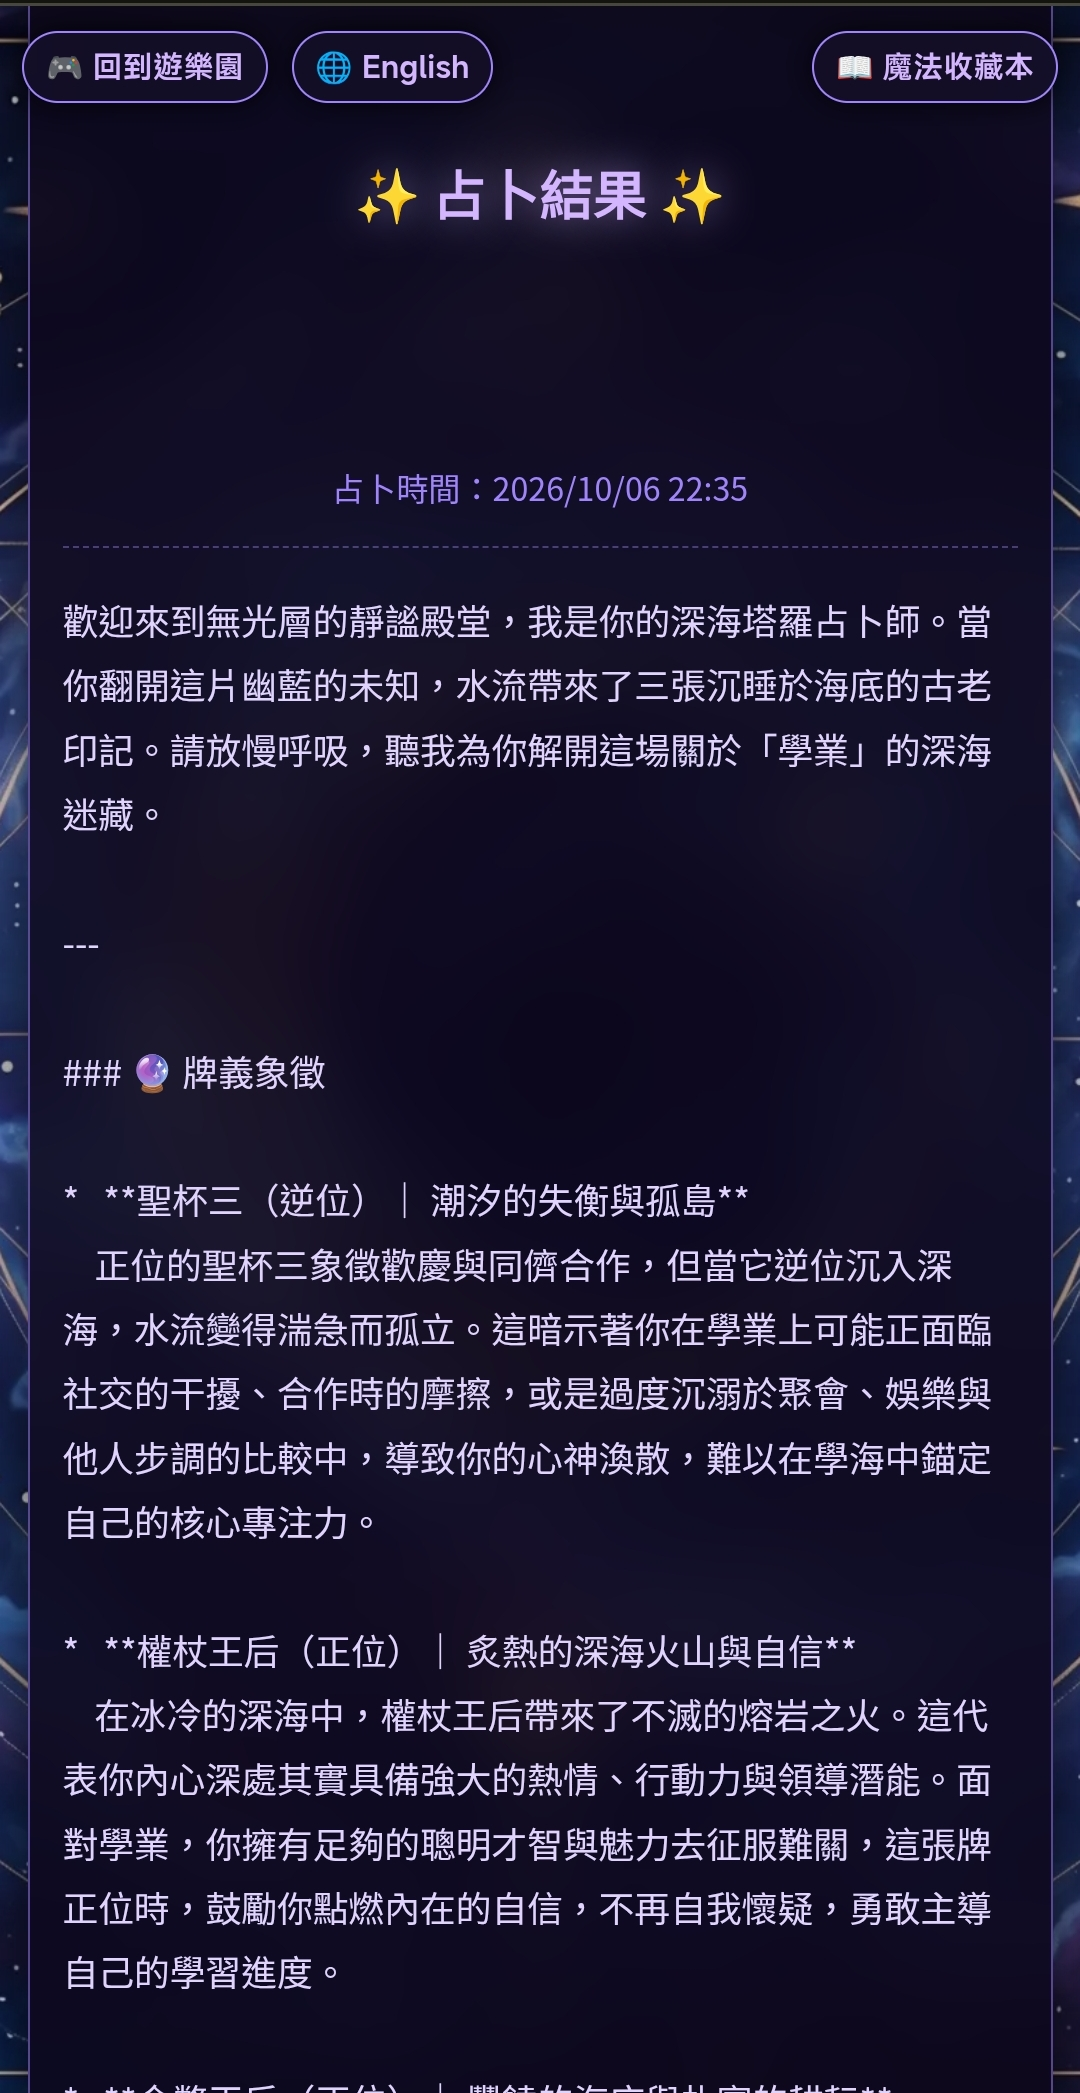
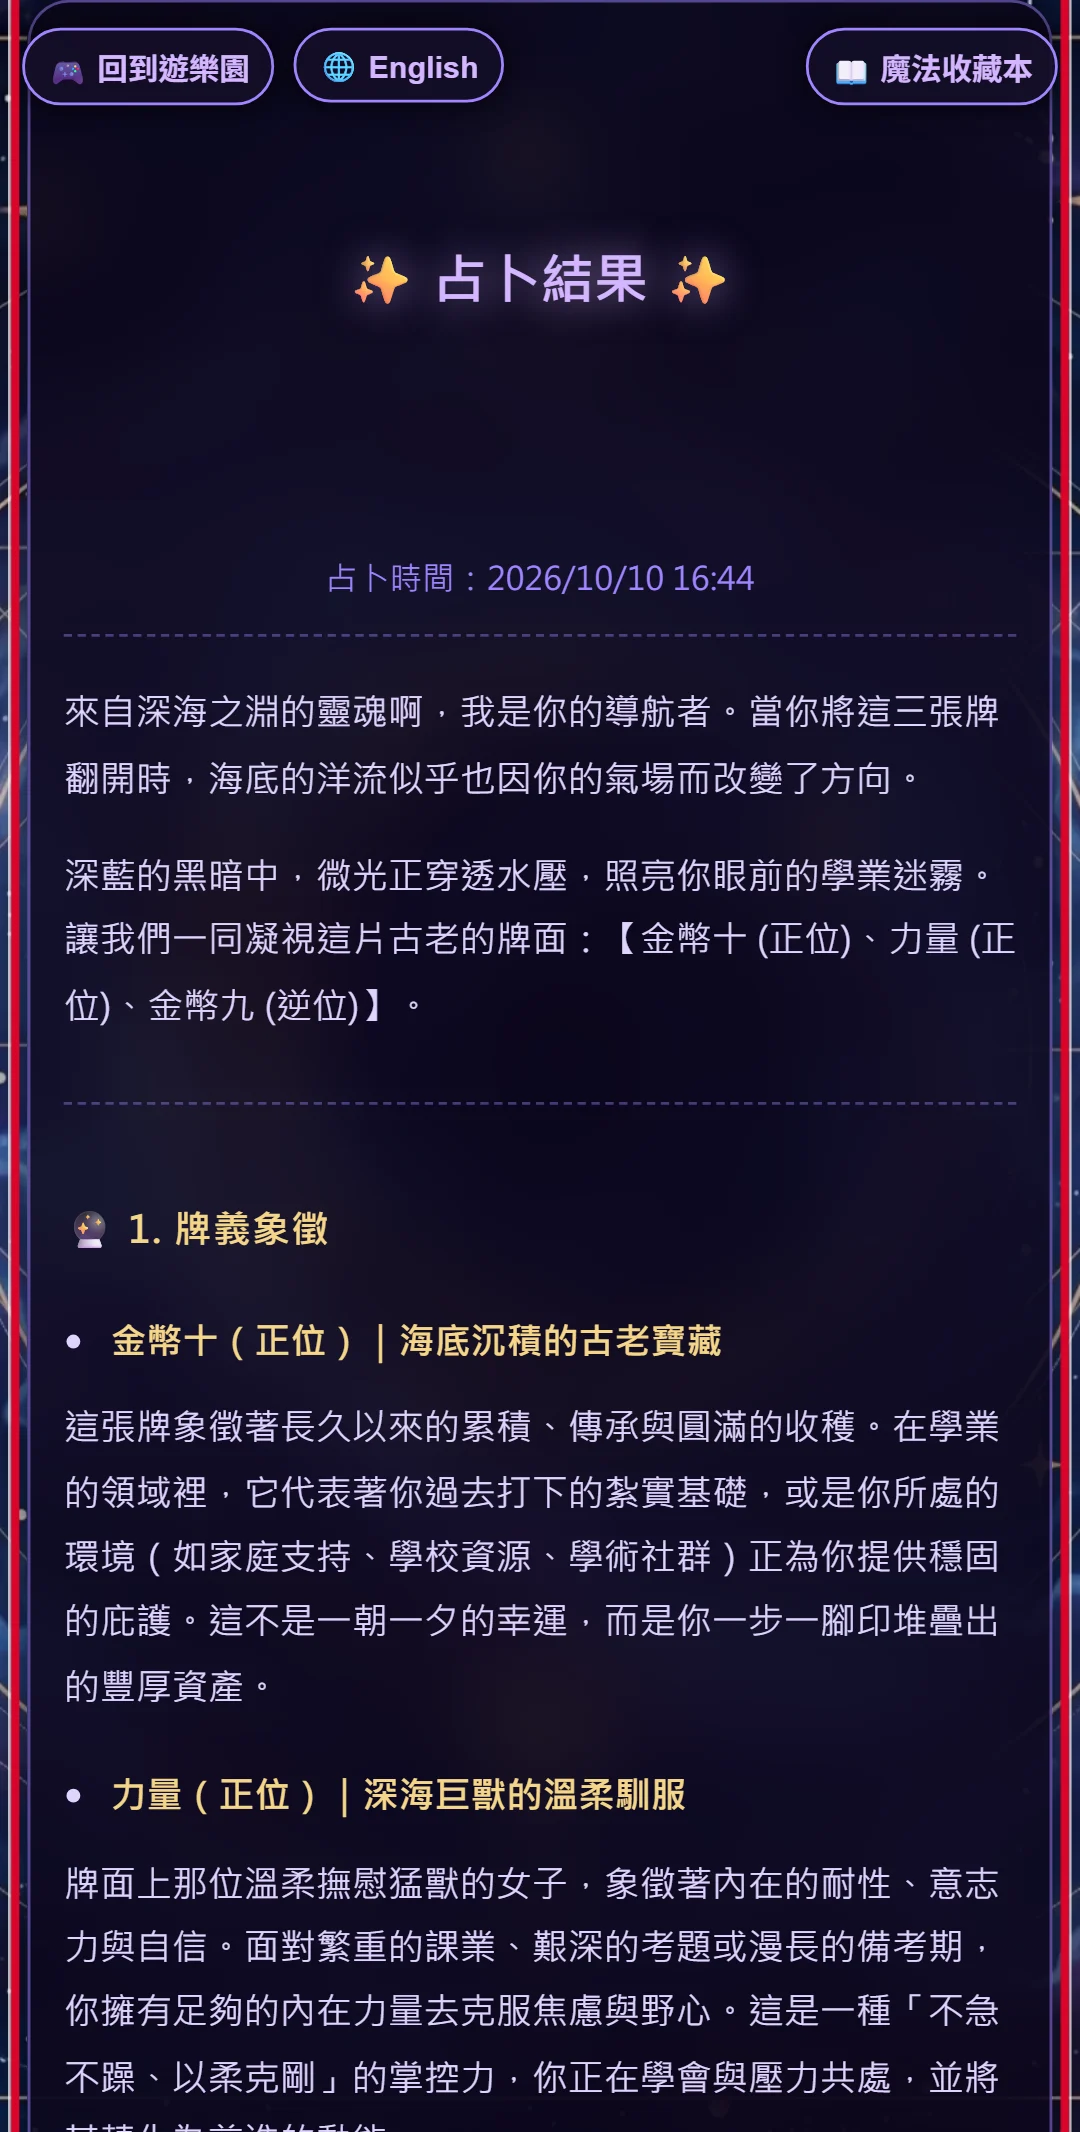
塔羅的 AI 解讀把 Markdown 符號轉成標題粗體清單，補拍塔羅與 AI 特助的教學圖

diff --git a/frontend/Tarot_Bottle_Project/script.js b/frontend/Tarot_Bottle_Project/script.js
@@ -527,6 +527,35 @@ function drawFromSpread(cardElement) {
   }
 }
 
+// AI 回來的解讀常帶 Markdown 符號（### 標題、**粗體**、* 清單、---），直接顯示會看到一堆符號。
+// 先把 <、> 等字元跳脫，避免內容被當成網頁程式碼，再把常見的符號轉成排版
+function escapeHtml(str) {
+  return String(str).replace(/[&<>"']/g, (c) => ({ "&": "&amp;", "<": "&lt;", ">": "&gt;", '"': "&quot;", "'": "&#39;" })[c]);
+}
+function formatReading(text) {
+  const lines = escapeHtml(text || "").split("\n");
+  const out = [];
+  let inList = false;
+  const inline = (s) => s.replace(/\*\*(.+?)\*\*/g, "<strong>$1</strong>").replace(/(^|[^*])\*([^*\s][^*]*?)\*(?!\*)/g, "$1<em>$2</em>");
+  for (const raw of lines) {
+    const line = raw.trim();
+    const item = line.match(/^[*\-•]\s+(.*)$/);
+    if (item) {
+      if (!inList) { out.push('<ul class="reading-list">'); inList = true; }
+      out.push(`<li>${inline(item[1])}</li>`);
+      continue;
+    }
+    if (inList) { out.push("</ul>"); inList = false; }
+    const head = line.match(/^#{1,6}\s+(.*)$/);
+    if (head) out.push(`<h4 class="reading-heading">${inline(head[1])}</h4>`);
+    else if (/^(-{3,}|\*{3,}|_{3,})$/.test(line)) out.push('<hr class="reading-hr">');
+    else if (line === "") out.push('<div class="reading-gap"></div>');
+    else out.push(`<p class="reading-p">${inline(line)}</p>`);
+  }
+  if (inList) out.push("</ul>");
+  return out.join("");
+}
+
 async function generateReading() {
   const resultBox = document.getElementById("result-box");
   const resultText = document.getElementById("ai-reading-result");
@@ -575,10 +604,7 @@ async function generateReading() {
       reading: data.analysis || "無法取得解讀",
     };
 
-    const formattedReply = (data.analysis || "無法取得解讀").replace(
-      /\n/g,
-      "<br>",
-    );
+    const formattedReply = formatReading(data.analysis || "無法取得解讀");
 
     resultText.innerHTML = `<div class="reading-time">占卜時間：${timeStr}</div>${formattedReply}`;
 
@@ -615,9 +641,9 @@ function showFavorites() {
       .map(
         (fav, index) => `
             <div class="fav-item">
-                <h4>🔮 ${fav.topic} <span class="fav-time">${fav.time}</span></h4>
-                <p class="fav-cards">${fav.cards.replace(/\n/g, "<br>")}</p>
-                <p class="fav-reading">${fav.reading.replace(/\n/g, "<br>")}</p>
+                <h4>🔮 ${escapeHtml(fav.topic)} <span class="fav-time">${escapeHtml(fav.time)}</span></h4>
+                <p class="fav-cards">${escapeHtml(fav.cards).replace(/\n/g, "<br>")}</p>
+                <div class="fav-reading">${formatReading(fav.reading)}</div>
                 <button class="delete-btn" onclick="deleteFavorite(${index})">${t.delBtn}</button>
             </div>
         `,

diff --git a/frontend/Tarot_Bottle_Project/style.css b/frontend/Tarot_Bottle_Project/style.css
@@ -189,6 +189,14 @@ body {
 .fav-time { font-size: 0.8em; color: #a084ff; font-weight: normal; }
 .fav-cards { font-size: 0.9em; color: #d4b5ff; background: rgba(0,0,0,0.5); padding: 10px; border-radius: 8px; border: 1px solid rgba(160,132,255,0.2); }
 .fav-reading { color: #e0d4ff; line-height: 1.6; font-size: 0.95em; }
+/* AI 解讀的排版（Markdown 轉出來的標題、清單、分隔線） */
+.reading-heading { margin: 14px 0 6px; color: #f5d68a; font-size: 1.05em; font-weight: 700; letter-spacing: 0.5px; }
+.reading-p { margin: 0 0 6px; }
+.reading-list { margin: 4px 0 8px; padding-left: 1.3em; }
+.reading-list li { margin-bottom: 6px; }
+.reading-hr { border: none; border-top: 1px dashed rgba(160, 132, 255, 0.4); margin: 12px 0; }
+.reading-gap { height: 6px; }
+#ai-reading-result strong, .fav-reading strong { color: #f5d68a; }
 .delete-btn { background: transparent; border: 1px solid #e74c3c; color: #e74c3c; padding: 5px 15px; border-radius: 15px; cursor: pointer; margin-top: 10px; transition: 0.3s; }
 .delete-btn:hover { background: #e74c3c; color: white; }
 

diff --git a/frontend/Tarot_Bottle_Project/index.html b/frontend/Tarot_Bottle_Project/index.html
@@ -4,7 +4,7 @@
     <meta charset="UTF-8" />
     <meta name="viewport" content="width=device-width, initial-scale=1.0" />
     <title>今日塔羅瓶 - 心情漂流瓶</title>
-    <link rel="stylesheet" href="style.css" />
+    <link rel="stylesheet" href="style.css?v=2.2" />
   </head>
   <body>
     <!-- 左上角：回到遊樂園按鈕 -->
@@ -144,6 +144,6 @@
       </div>
     </div>
 
-    <script src="script.js?v=2.1"></script>
+    <script src="script.js?v=2.2"></script>
   </body>
 </html>
